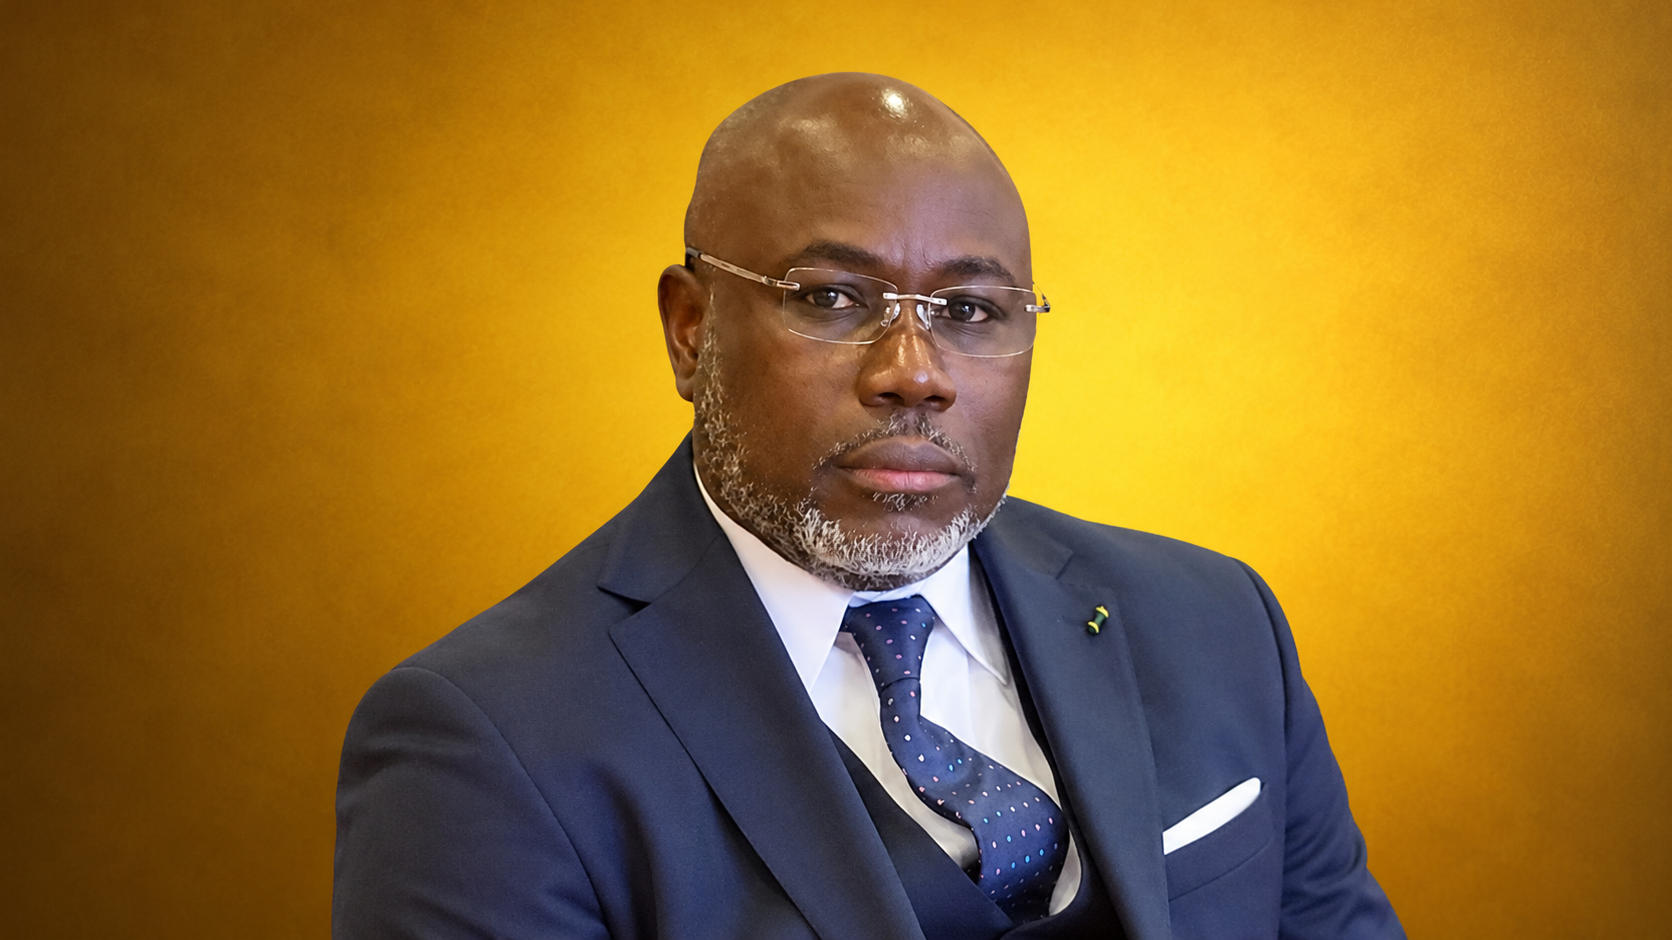
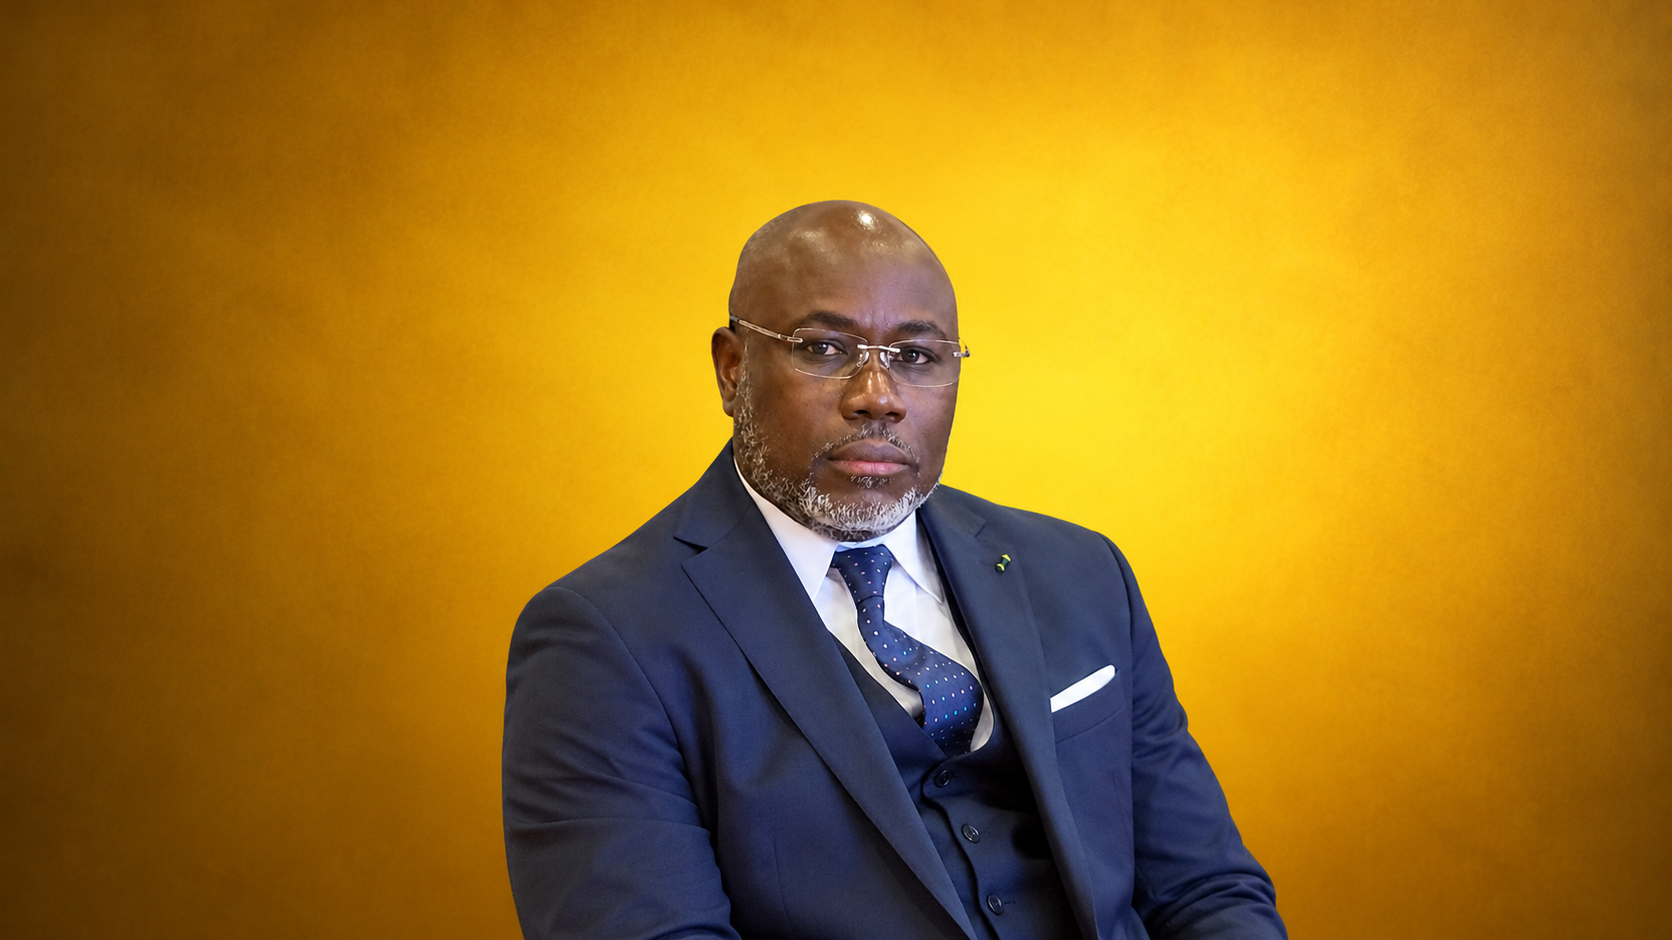
Mise_a_jour

Changed region(s): [[0.1866, 0.0617, 0.8397, 1.0]]

diff --git a/src/components/home/Hero.js b/src/components/home/Hero.js
@@ -1,6 +1,5 @@
 import React from 'react';
 import { Link } from 'react-router-dom';
-import CarteFrance from './CarteFrance';
 import './Hero.css';
 
 export default function Hero({ serviceEnCours, prochainService }) {
@@ -10,9 +9,8 @@ export default function Hero({ serviceEnCours, prochainService }) {
 
   return (
     <section className="hero-pasteur">
-      <img src="/pr_img.png" alt="Dr. Asa Esaie et Prophétesse Déborah Alice" className="hero-pasteur-img" />
+      <img src="/pr_img.png" alt="Dr. Asa Esaie" className="hero-pasteur-img" />
       <div className="hero-pasteur-overlay">
-        <CarteFrance className="carte-france--hero" />
         <div className="hero-pasteur-content">
           <p className="hero-pasteur-label">Temple de la Célébration, Temple Béthel</p>
           <h2 className="hero-pasteur-nom">Dr. Asa Esaie<br />Prophétesse Déborah Alice</h2>

diff --git a/src/pages/Formation.js b/src/pages/Formation.js
@@ -1,7 +1,6 @@
 import React, { useState, useEffect, useRef } from 'react';
 import { Link } from 'react-router-dom';
 import SectionHeader from '../components/SectionHeader';
-import couplePng from '../assets/photo-couple.png';
 import {
   drAsaEsaie,
   vision,
@@ -156,9 +155,8 @@ export default function Formation() {
           <FadeSection>
             <div className="form-dr">
               <div className="form-dr-photo">
-                {/* TODO: remplacer par un portrait solo du Dr */}
                 <img
-                  src={couplePng}
+                  src="/pr_img.png"
                   alt={drAsaEsaie.nom}
                   className="form-dr-img"
                 />

diff --git a/src/pages/Home.js b/src/pages/Home.js
@@ -8,7 +8,6 @@ import {
   Semaine,
   Activites,
   CelluleBanner,
-  CarteFrance,
 } from '../components/home';
 import './Home.css';
 
@@ -58,10 +57,6 @@ export default function Home() {
     <main className="home">
       <CelluleBanner cellules={data.cellules.items} />
       <Hero serviceEnCours={serviceEnCours} prochainService={prochainService} />
-
-      <div className="carte-france-bandeau">
-        <CarteFrance />
-      </div>
 
       <Annonces
         annonces={data.annonces.items}

diff --git a/src/components/home/index.js b/src/components/home/index.js
@@ -3,4 +3,3 @@ export { default as Annonces } from './Annonces';
 export { default as Semaine } from './Semaine';
 export { default as Activites } from './Activites';
 export { default as CelluleBanner } from './CelluleBanner';
-export { default as CarteFrance } from './CarteFrance';

diff --git a/src/pages/Formation.css b/src/pages/Formation.css
@@ -92,7 +92,7 @@
   width: 100%;
   height: 100%;
   object-fit: cover;
-  object-position: 70% 15%;
+  object-position: center 20%;
 }
 .form-dr-texte {
   flex: 1;
